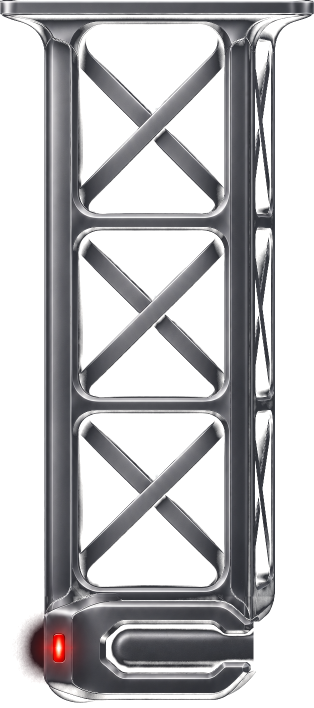
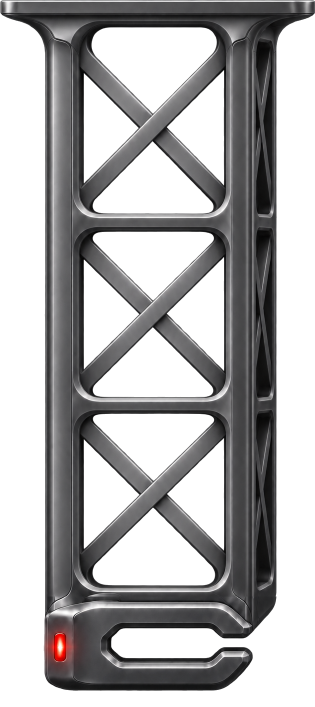
Swap in the true-alpha v8x boom art and re-measure its anchors

diff --git a/desktop/native/ModelPlanCockpitWeb/Sources/ModelPlanCockpitWeb/CockpitLaunchRack.swift b/desktop/native/ModelPlanCockpitWeb/Sources/ModelPlanCockpitWeb/CockpitLaunchRack.swift
@@ -115,9 +115,11 @@ public enum CockpitDockingBoom {
     /// fractions of the lug art's width and height. The lug's base bottom sits on the canopy line.
     public let lugWidth: CGFloat, lugAspect: CGFloat, lugPinTip: CGFloat, lugPinY: CGFloat
   }
-  /// Measured on the cut v8 art (boom 628 x 1416 px, lug 866 x 436 px at the source scale).
-  public static let metrics = Metrics(aspect: 1416.0 / 628, gripY: 1289.0 / 1416, gripX: 222.0 / 628, clampTop: 1193.0 / 1416,
-                                      lugWidth: 0.7, lugAspect: 436.0 / 866, lugPinTip: 106.0 / 866, lugPinY: 116.0 / 436)
+  /// Measured on the v8x exports (boom crop 630 x 1414 px, lug crop 956 x 554 px, before the half-size downscale): the
+  /// closed jaws' gap centre is row 1285; the lug is scaled so its 267 px pin is 56 px (the gap is 60 px) and placed so
+  /// its upright stands just right of the jaw tips, the pin reaching into the clamp; the poses differ from row 1193.
+  public static let metrics = Metrics(aspect: 1414.0 / 630, gripY: 1285.0 / 1414, gripX: 380.0 / 630, clampTop: 1193.0 / 1414,
+                                      lugWidth: 0.318, lugAspect: 554.0 / 956, lugPinTip: 1.0 / 956, lugPinY: 269.5 / 554)
   /// #1207 bounds for the status-item width, and the width used before any status item was measured.
   public static let nominalWidth: CGFloat = 40
   public static let minimumWidth: CGFloat = 24

diff --git a/desktop/native/ModelPlanCockpitWeb/Tests/ModelPlanCockpitWebTests/CockpitLaunchRackTests.swift b/desktop/native/ModelPlanCockpitWeb/Tests/ModelPlanCockpitWebTests/CockpitLaunchRackTests.swift
@@ -179,13 +179,13 @@ final class CockpitLaunchRackTests: XCTestCase {
         XCTAssertEqual(grip.x, pin.x, accuracy: 1e-9, "the pin's tip is in the clamp")
         XCTAssertEqual(grip.y, pin.y, accuracy: 1e-9, "closed and settled: the grip is on the pin")
         XCTAssertLessThan(rest.boom.minY, 0, "the mount plate stays tucked behind the menu bar (gap unchanged)")
-        XCTAssertLessThanOrEqual(rest.boom.maxY, line + 1e-9, "the clamp never hangs below the canopy line")
+        XCTAssertLessThanOrEqual(rest.boom.maxY - line, 0.12 * width, "only the lower jaw's lip tucks behind the canopy frame")
         XCTAssertGreaterThanOrEqual(lug.minX, 0); XCTAssertLessThanOrEqual(lug.maxX, width, "the lug fits the panel")
       }
     }
     let closedShutter = CockpitDockingBoom.pose(width: 40, line: 10, slide: 1, closure: 1, lugShown: true)
     let clampTop = closedShutter.boom.minY + closedShutter.boom.height * m.clampTop
-    XCTAssertLessThan(clampTop, 0.5, "shutter closed: only the clamp shows below the menu bar")
+    XCTAssertLessThan(clampTop, 1, "shutter closed: only the clamp shows below the menu bar")
   }
 
   /// D439/D446: the clamp is open while the boom slides and while the cockpit is away, closes once the boom is down and

diff --git a/desktop/official-visuals/cockpit/rack/SOURCES.md b/desktop/official-visuals/cockpit/rack/SOURCES.md
@@ -1,14 +1,14 @@
 <!-- SPDX-License-Identifier: LicenseRef-ModelPlan-Visuals-1.0 -->
 # Docking boom sources
 
-Copyright (c) 2026 ModelPlan. The owner accepted the docking boom round 8 on 2026-11-25 (D447; one piece, no telescoping, D430; the clamp closes on a lug on the canopy frame, D439/D446). It replaces the three-section launch rack (D160/D172). The files are cut from the confirm-folder art `24-rack-launch-tower` (`v8-open.png`, `v8-closed.png`, `v6-1-lug.png`, generated on #1a1d22): the boom is cropped to the mount plate's edges and from the plate's top edge to the clamp's bottom, the closed pose without the illustrative lug bar, and the lug alone. They remain subject to the official visual license (`../../LICENSE.md`). The packaged app ships the official cockpit bundle (the normal build has the official appearance, owner 2026-11-01), so it carries this art; the community-edition page bundle for forks excludes it.
+Copyright (c) 2026 ModelPlan. The owner accepted the docking boom round 8 on 2026-11-25 (D447; one piece, no telescoping, D430; the clamp closes on a lug on the canopy frame, D439/D446). It replaces the three-section launch rack (D160/D172). The files come from the true-alpha implementation exports in the confirm folder `24-rack-launch-tower` (`v8x-open.png`, `v8x-closed.png`, `v8x-lug.png`, made from the approved `v8-open.png`, `v8-closed.png` and `v6-1-lug.png`; the closed pose without the illustrative lug bar, the lug without its canopy-frame segment). The boom is cropped to the mount plate's edges and from the plate's top edge to the clamp's bottom (x 196-826, y 72-1486 of the 1024 x 1536 canvas), the lug to its bounds (x 197-1153, y 212-766), each downscaled by half with premultiplied averaging. They remain subject to the official visual license (`../../LICENSE.md`). The packaged app ships the official cockpit bundle (the normal build has the official appearance, owner 2026-11-01), so it carries this art; the community-edition page bundle for forks excludes it.
 
 Night art only: there is no day variant yet, and the day appearance uses the same files (acceptable for now, D447).
 
 | File | Pixels | SHA-256 |
 | --- | --- | --- |
[6 lines of base64/hex data omitted]
 
 The native app draws the boom as wide as the widest status-item width of the session (24-96 pt) and scales its height from the art. Anchor points (fractions of the cut art) are `CockpitDockingBoom.metrics` in `CockpitLaunchRack.swift`.
